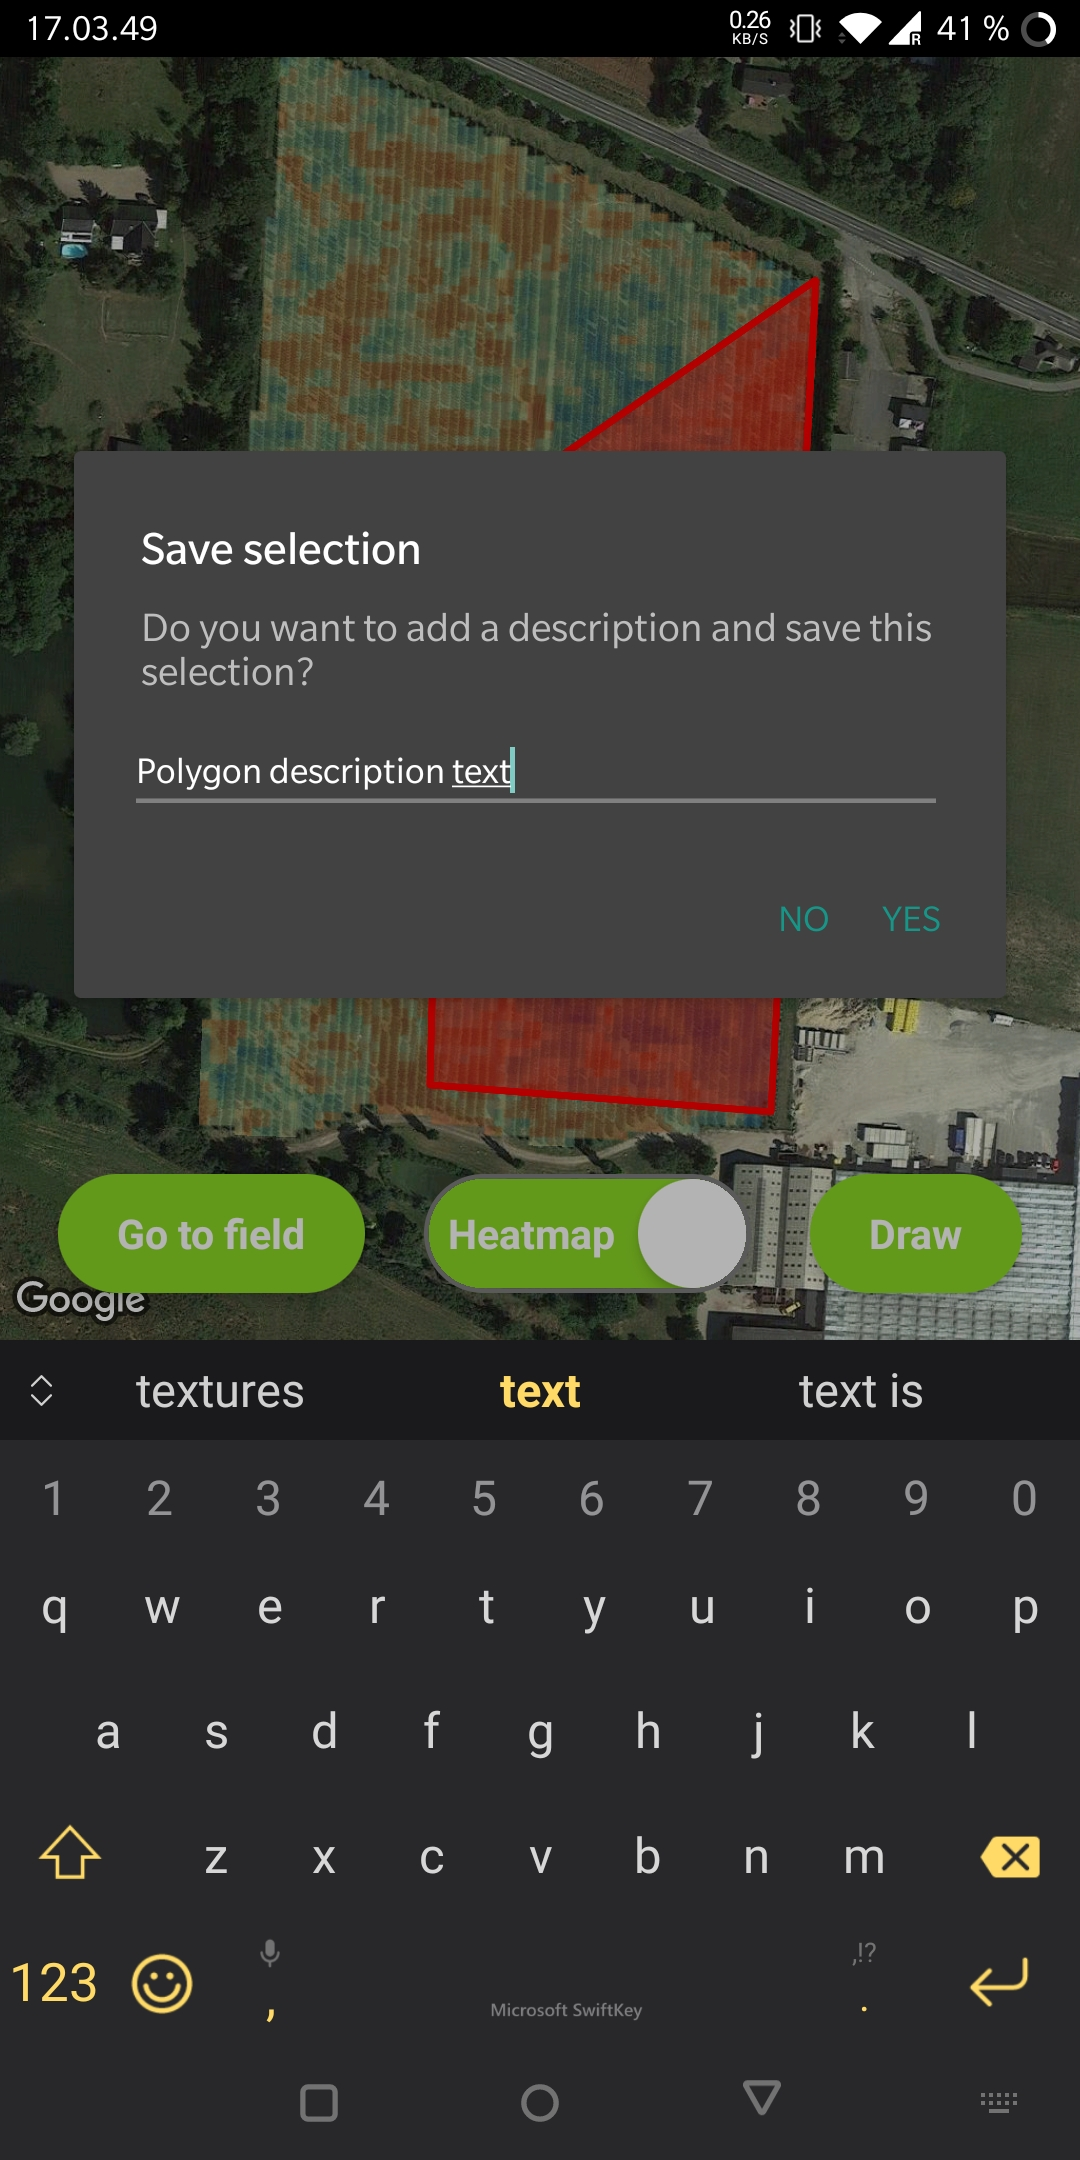
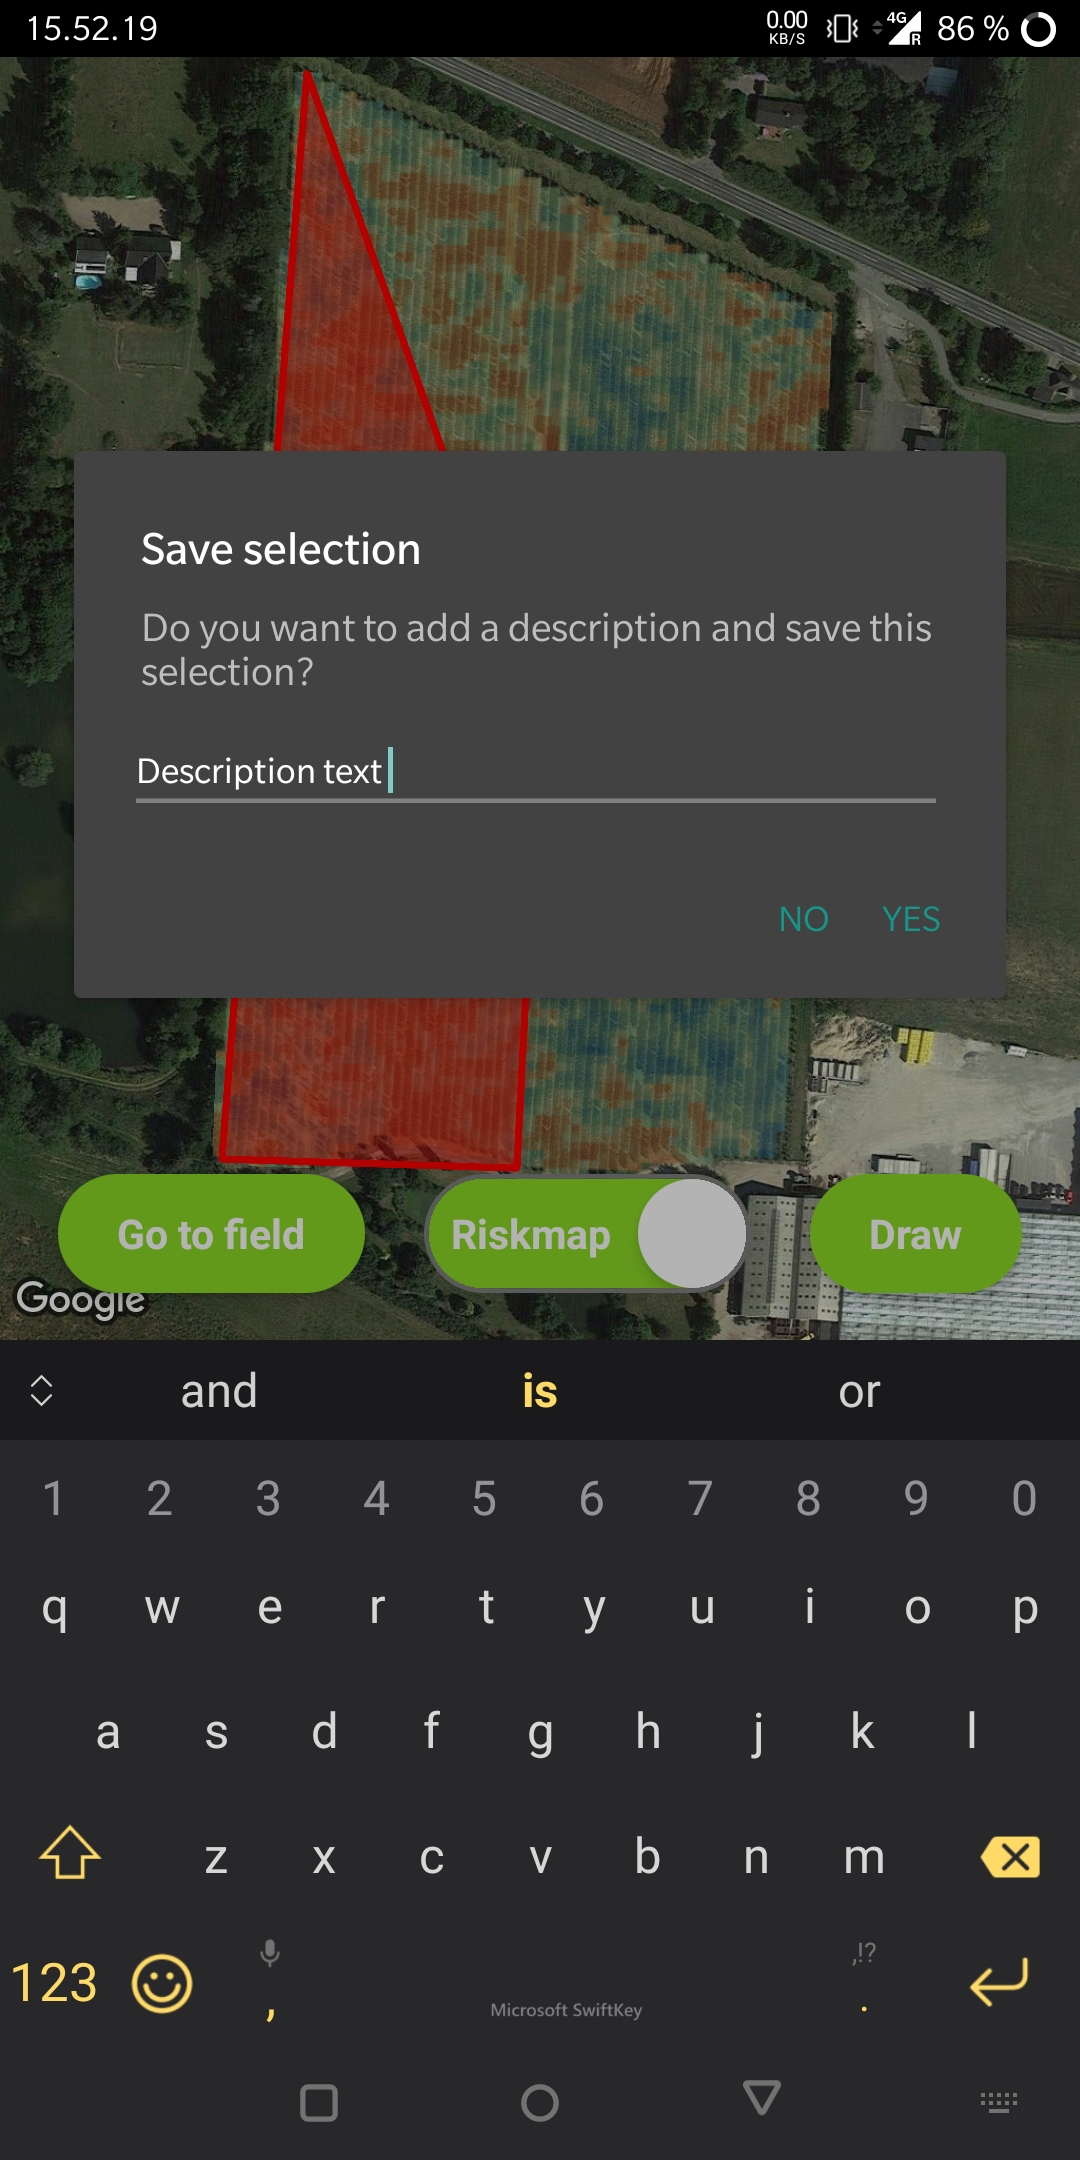
changed screenshots and readme: heatmap -> riskmap

diff --git a/README.md b/README.md
@@ -7,7 +7,7 @@ This app is made with React Native for [Fauna Smart Technologies](https://faunas
 - displays a map view using the Google Maps API (satellite mode)
 - centers the map on a specific field near Odense, Denmark
 - "Go to field" button recenters the map when clicked
-- "Heatmap/Satellite" switch toggles on/off a heatmap overlay, over the base satellite map
+- "Riskmap/Satellite" switch toggles on/off a riskmap overlay, over the base satellite map
 - "Draw/Finish" button allows the user to start drawing a polygon over the map; when "Finish" is clicked, a dialog asks for a description. When the user taps "Yes", polygon and description are sent to the backend
 
 ## Dependencies
@@ -54,14 +54,14 @@ This app is made with React Native for [Fauna Smart Technologies](https://faunas
 - MapView: main map component
 - Circle: first drawing point component
 - Polygon: drawing polygon component
-- Overlay: heatmap overlay component
+- Overlay: riskmap overlay component
 - TouchableOpacity: recenter button component
-- Toggle: custom heatmap toggle component (./components/toggle.js)
+- Toggle: custom riskmap toggle component (./components/toggle.js)
 - TouchableOpacity: draw button component
 - styling definitions
 
 ## Screenshots
 
-| Basemap view | Heatmap toggled | Polygon drawing | Confirm dialog |
+| Basemap view | Riskmap toggled | Polygon drawing | Confirm dialog |
 | --------- | ---------- | --------------- | ------------------ |
 | <img src="screenshots/base-map.jpg" alt="BaseMap" width="200" /> | <img src="screenshots/toggled-overlay.jpg" alt="ToggledOverlay" width="200" /> | <img src="screenshots/polygon-drawing.jpg" alt="PolygonDrawing" width="200" /> | <img src="screenshots/polygon-description.jpg" alt="PolygonDescription" width="200" /> | 
